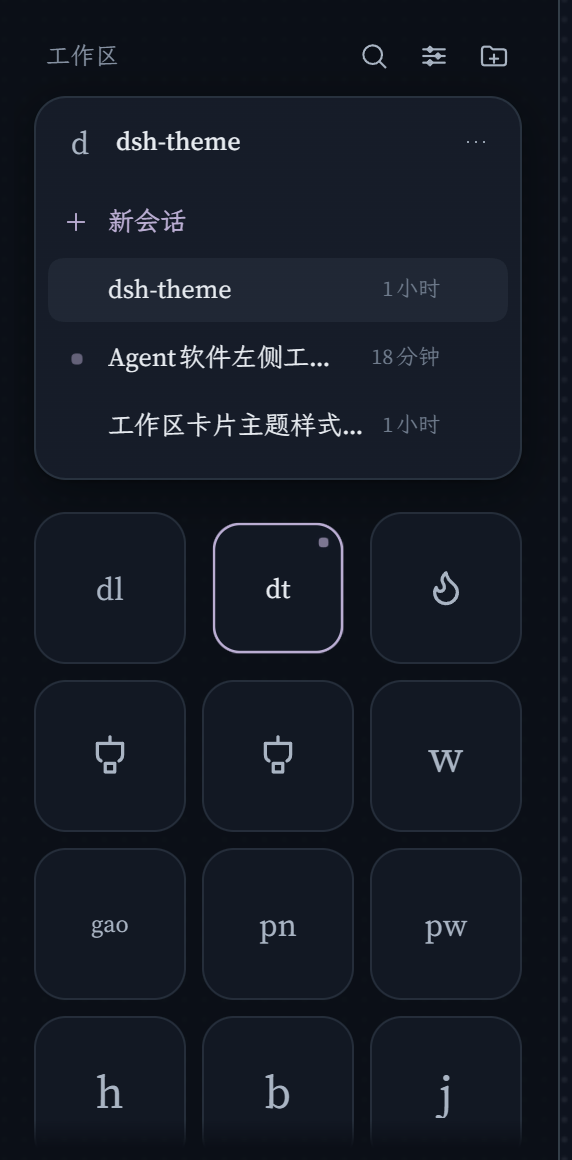
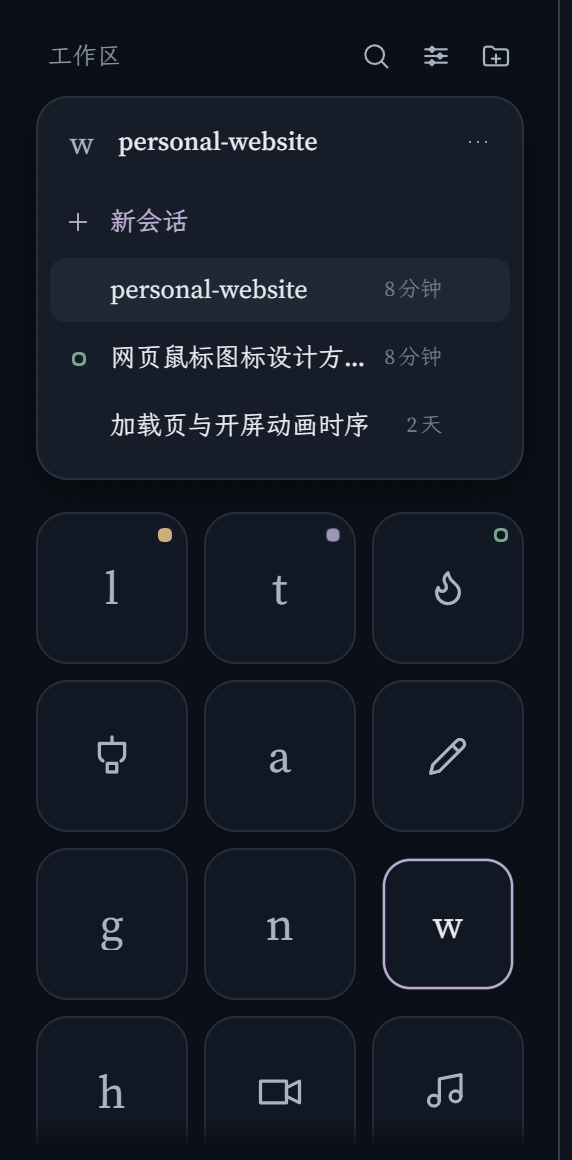
docs: 重拍预览与 gif，单字母图标 + 三种角标
- 卡片图标改成单字母 / 内置图标，不再出现自动生成的双字字标
- 第一行固定演示待处理 / 运行中 / 未读完成三种角标
- 重录 demo gif：去掉皮肤残留，末尾依次扫过三种角标

diff --git a/README.md b/README.md
@@ -12,10 +12,12 @@ AveritA 的 DSH 侧栏插件：把「工作区」区换成**图标网格**，当
 
 左起：点一下收起后全部卡片回到网格、当前工作区常驻在网格上方、同一状态的深色。
 
-下面这段是实机演示——悬停出名称 → 点它收起 → 换一张展开 → 拖分隔条调高度：
+下面这段是实机演示——悬停出名称 → 点它收起 → 换一张展开 → 拖分隔条调高度 → 最后扫过第一行的三种角标：
 
-<img src="docs/demo.gif" width="260" alt="演示：常驻卡片 / 点卡片收起与展开 / 拖动分隔条">
+<img src="docs/demo.gif" width="260" alt="演示：常驻卡片 / 点卡片收起与展开 / 拖动分隔条 / 三种角标">
 
+> 第一行从左到右：实心 = 待你处理，脉冲点 = 运行中，空心环 = 未读完成。
+>
 > 截图与演示都取自基座本身，没有装 `dsh-workspace-cards-skin`
 > （皮肤会在运行中的工作区卡片里用 canvas 画流光，静帧里像噪点）。
 
